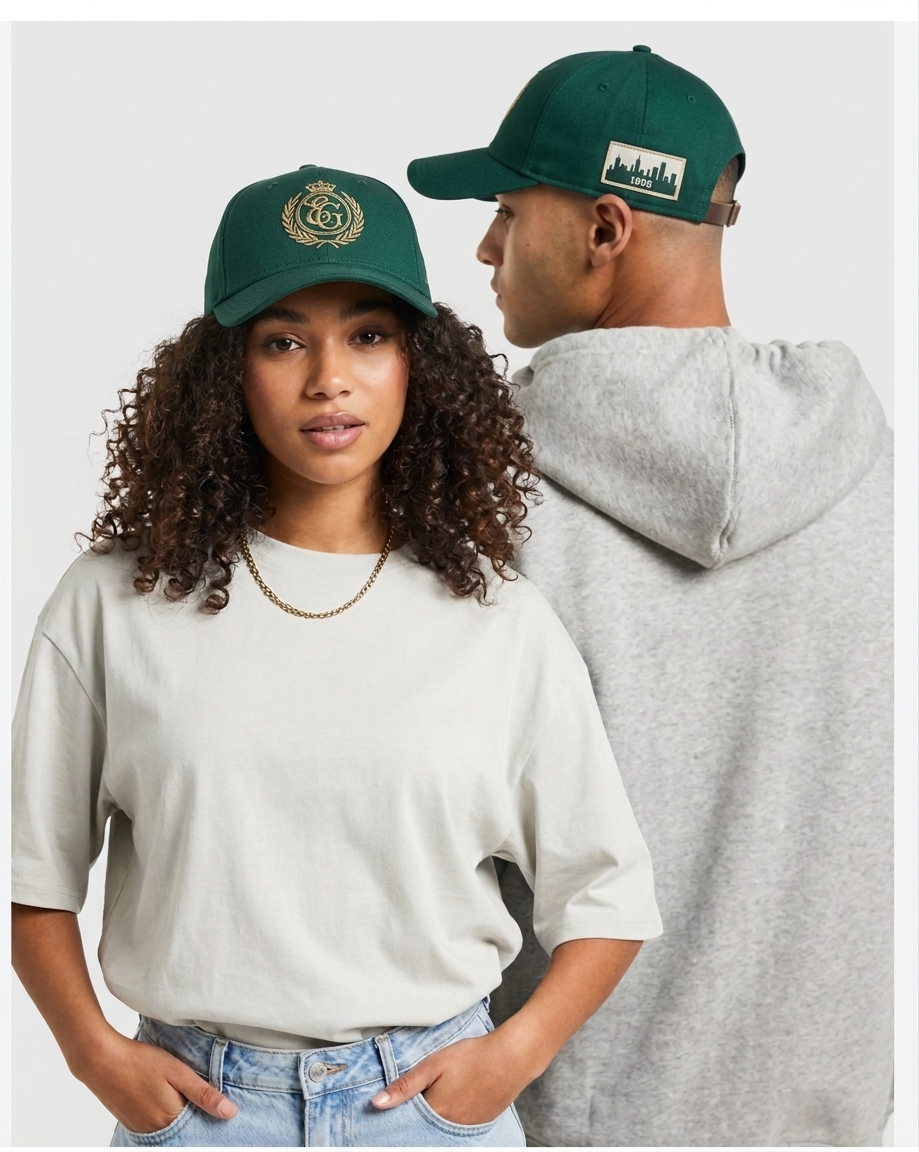
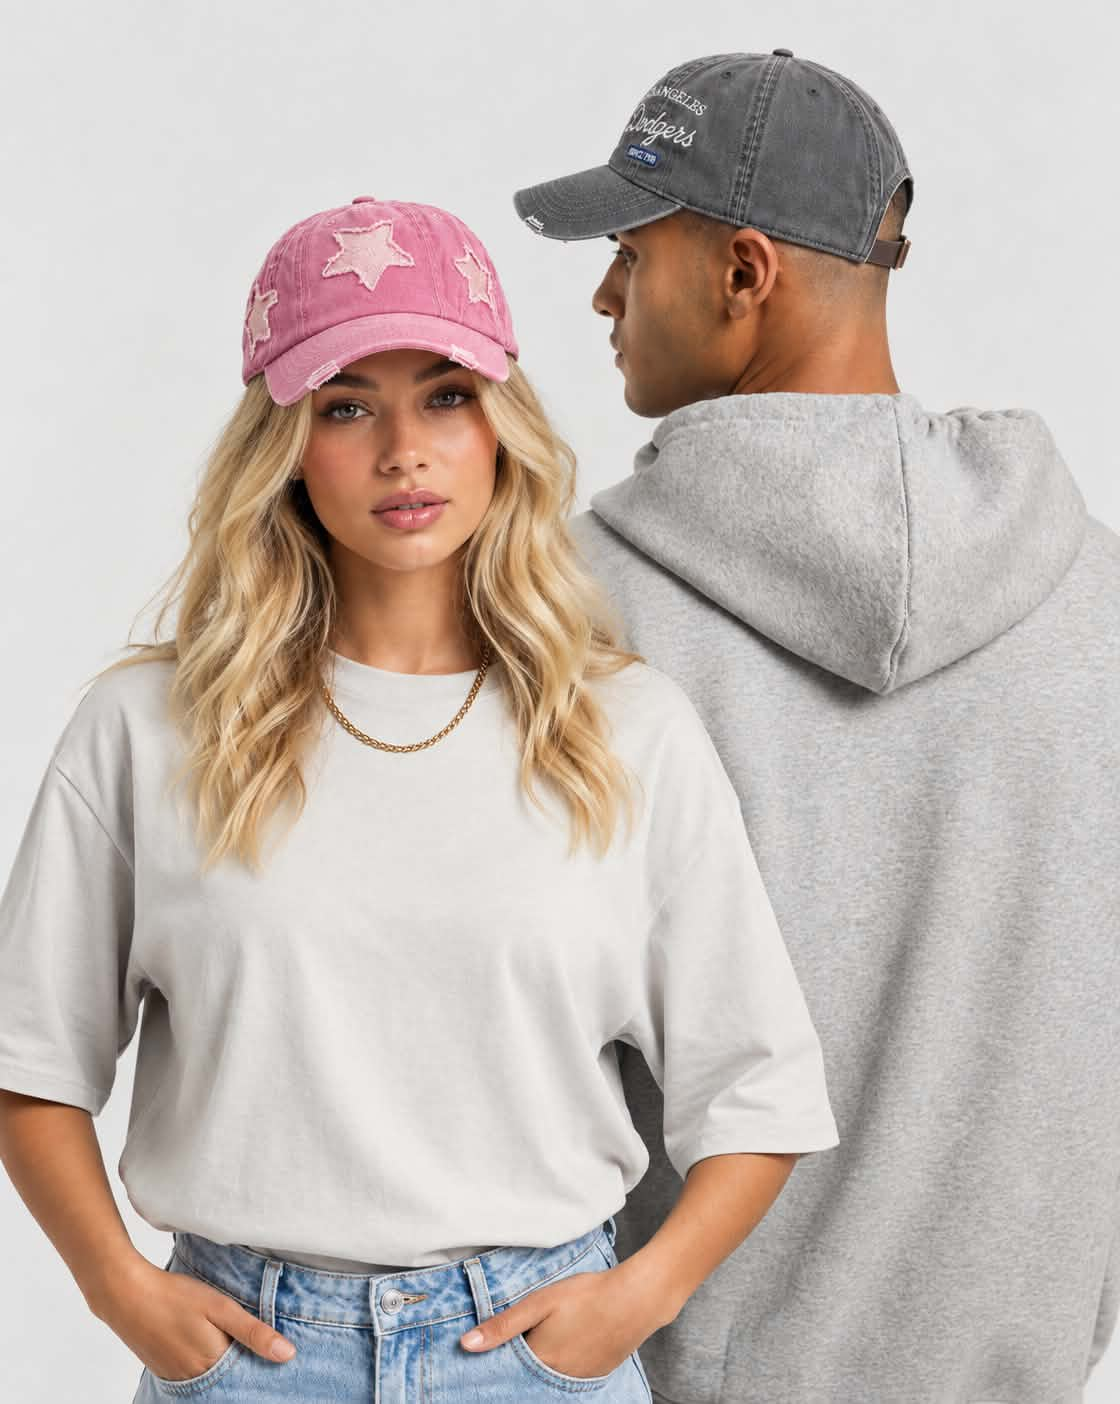
fix(admin): la cloche ne marque plus tout comme lu à l'ouverture

diff --git a/boutique/frontend/src/components/admin/OrderNotificationBell.jsx b/boutique/frontend/src/components/admin/OrderNotificationBell.jsx
@@ -1,32 +1,17 @@
 import { useState } from 'react';
 import { useNavigate } from 'react-router-dom';
-import { api } from '../../api/client.js';
 import { formatPrice } from '../../utils/price.js';
 import { formatRelativeTime } from '../../utils/relativeTime.js';
 
 // Cloche de notification : liste des commandes pas encore consultées
-// (orders.viewed_at IS NULL). Cliquer sur la cloche les marque toutes comme
-// vues immédiatement (le badge se vide), tout en gardant la liste affichée
-// dans le panneau tant qu'il reste ouvert. Cliquer sur une commande ouvre
-// la page Commandes avec cette commande déjà sélectionnée.
-export default function OrderNotificationBell({ orders, onOrdersUpdated }) {
+// (orders.viewed_at IS NULL). Ouvrir le panneau ne marque rien comme lu —
+// seul un clic sur une commande précise (son nom) la marque vue, via la
+// même mécanique que dans la page Commandes (openOrder -> markViewed).
+export default function OrderNotificationBell({ orders }) {
   const [open, setOpen] = useState(false);
-  const [panelOrders, setPanelOrders] = useState([]);
   const navigate = useNavigate();
 
   const unviewed = orders.filter((o) => !o.viewed_at);
-
-  function handleToggle() {
-    if (!open) {
-      setPanelOrders(unviewed.slice(0, 8));
-      if (unviewed.length > 0) {
-        api.markAllOrdersViewed()
-          .then(() => onOrdersUpdated?.())
-          .catch(() => {});
-      }
-    }
-    setOpen((o) => !o);
-  }
 
   function handleSelect(order) {
     setOpen(false);
@@ -37,7 +22,7 @@ export default function OrderNotificationBell({ orders, onOrdersUpdated }) {
     <div className="relative">
       <button
         type="button"
-        onClick={handleToggle}
+        onClick={() => setOpen((o) => !o)}
         className="relative flex h-10 w-10 items-center justify-center rounded-full border border-[var(--color-line)] hover:border-[var(--color-amber)] transition-colors"
         aria-label={unviewed.length > 0 ? `${unviewed.length} nouvelle(s) commande(s) non consultée(s)` : 'Aucune nouvelle commande'}
         title="Commandes"
@@ -61,10 +46,10 @@ export default function OrderNotificationBell({ orders, onOrdersUpdated }) {
               <h3 className="font-display text-lg text-[var(--color-ink)]">Notifications</h3>
             </div>
             <div className="max-h-80 overflow-y-auto">
-              {panelOrders.length === 0 ? (
+              {unviewed.length === 0 ? (
                 <p className="px-4 py-6 text-sm text-[var(--color-muted)] text-center">Aucune nouvelle commande.</p>
               ) : (
-                panelOrders.map((order) => (
+                unviewed.slice(0, 8).map((order) => (
                   <button
                     key={order.id}
                     type="button"

diff --git a/boutique/frontend/src/pages/AdminOrders.jsx b/boutique/frontend/src/pages/AdminOrders.jsx
@@ -156,7 +156,7 @@ export default function AdminOrders() {
           {(statusFilter || viewedFilter || dateFrom || dateTo || search) && (
             <button onClick={resetFilters} className="text-sm text-[var(--color-amber-dark)] hover:underline">Réinitialiser</button>
           )}
-          <OrderNotificationBell orders={orders} onOrdersUpdated={loadOrders} />
+          <OrderNotificationBell orders={orders} />
         </div>
       </header>
 

diff --git a/boutique/frontend/src/pages/AdminDashboard.jsx b/boutique/frontend/src/pages/AdminDashboard.jsx
@@ -187,7 +187,7 @@ export default function AdminDashboard() {
         ) : (
           <header className="bg-white border-b border-[var(--color-line)] px-6 py-4 flex items-center justify-between">
             <h2 className="font-display text-xl">Dashboard des statistiques</h2>
-            <OrderNotificationBell orders={orders} onOrdersUpdated={loadData} />
+            <OrderNotificationBell orders={orders} />
           </header>
         )}
 
